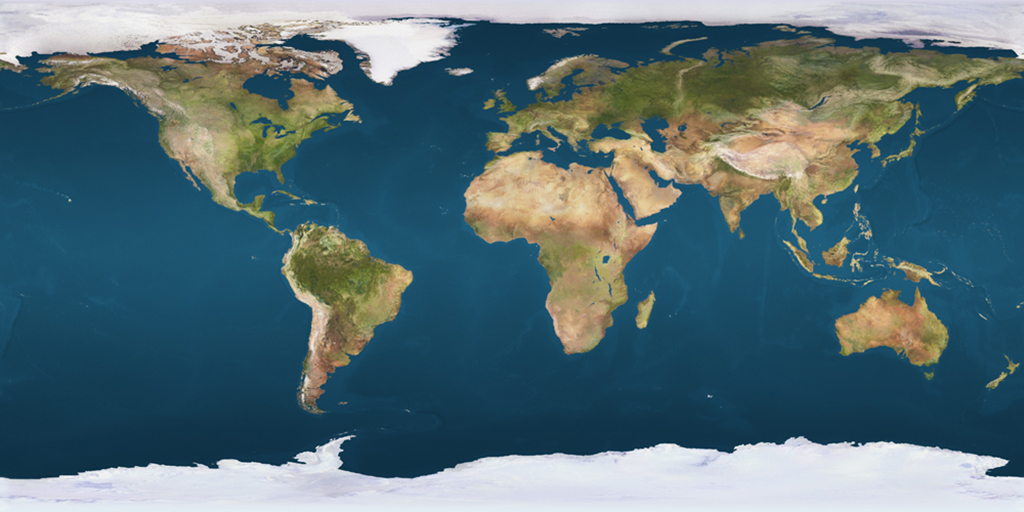
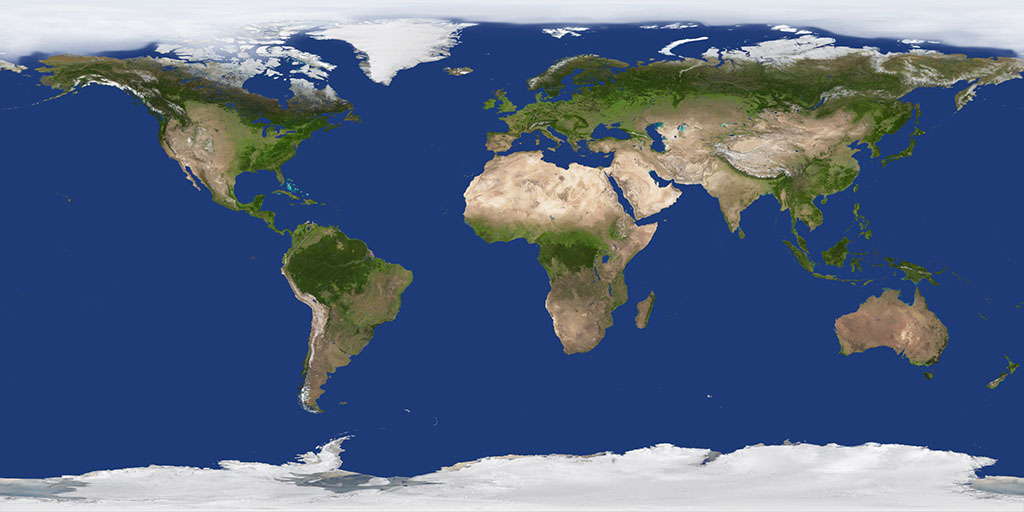
Update planets

diff --git a/api/migrate/map.js b/api/migrate/map.js
@@ -108,13 +108,6 @@ export const map = [
       .setTextures({
         specular: 0x4D5A62,
         map: CONST.KEY_PLANET_EARTH_MAP,
-        bump: {
-          key: CONST.KEY_PLANET_EARTH_BUMP,
-          scale: 0.4
-        },
-        spec: CONST.KEY_PLANET_EARTH_SPEC,
-        cloudMap: CONST.KEY_PLANET_EARTH_CLOUD_MAP,
-        cloudMapTrans: CONST.KEY_PLANET_EARTH_CLOUD_MAP_TRANS,
       })
       .setGlowInside({color: 0xA0D1E6, coefficient: 1.2, power: 1.9, length: 0.06})
       .setGlowOutside({color: 0xA0D1E6, coefficient: 0.01, power: 1.6, length: 0.6})
@@ -128,11 +121,7 @@ export const map = [
       .setParams({ radius: 1.737, segments: 40 })
       .setTextures({
         specular: 0x000000,
-        map: CONST.KEY_PLANET_MOON_MAP,
-        bump: {
-          key: CONST.KEY_PLANET_MOON_BUMP,
-          scale: 0.05
-        },
+        map: CONST.KEY_PLANET_MOON_MAP
       })
       .setGlowInside({color: 0xCCCCCC, coefficient: 1, power: 2.0, length: 0.1})
       .setGlowOutside({color: 0xFFFFFF, coefficient: 0.2, power: 2.5, length: 0.5})
@@ -149,14 +138,175 @@ export const map = [
       .setTextures({
         specular: 0x000000,
         map: CONST.KEY_PLANET_MARS_MAP,
-        bump: {
-          key: CONST.KEY_PLANET_MARS_BUMP,
-          scale: 0.03
-        },
       })
       .setGlowInside({color: 0x625731, coefficient: 1, power: 2.0, length: 0.02})
       .setGlowOutside({color: 0x625731, coefficient: 0.1, power: 2.5, length: 0.5})
       .setId('ccc3fe37-1b8c-489c-bbbb-0b3e04784d72')
+      .setRaceId('2389afd5-5635-4b81-8a2c-13aec5955240')
+      .setSectorId(ID_SECTOR_SUN),
+    new Planet()
+      .setName('Ceres')
+      .setSpeedMove(0.0004)
+      .setDistanceToCenter(1200)
+      .setParams({ radius: 3.39, segments: 40 })
+      .setPopulation(5000)
+      .setTextures({
+        specular: 0x000000,
+        map: CONST.KEY_PLANET_CERES_MAP,
+      })
+      .setGlowInside({color: 0x625731, coefficient: 1, power: 2.0, length: 0.02})
+      .setGlowOutside({color: 0x625731, coefficient: 0.1, power: 2.5, length: 0.5})
+      .setId('47e4fe7c-3d17-4e39-8d11-e22a0f2c3b58')
+      .setRaceId('2389afd5-5635-4b81-8a2c-13aec5955240')
+      .setSectorId(ID_SECTOR_SUN),
+    new Planet()
+      .setName('Eris')
+      .setSpeedMove(0.0004)
+      .setDistanceToCenter(1350)
+      .setParams({ radius: 3.39, segments: 40 })
+      .setPopulation(5000)
+      .setTextures({
+        specular: 0x000000,
+        map: CONST.KEY_PLANET_ERIS_MAP,
+      })
+      .setGlowInside({color: 0x625731, coefficient: 1, power: 2.0, length: 0.02})
+      .setGlowOutside({color: 0x625731, coefficient: 0.1, power: 2.5, length: 0.5})
+      .setId('c09575e9-b6c8-4944-8f69-43e5e89e6e12')
+      .setRaceId('2389afd5-5635-4b81-8a2c-13aec5955240')
+      .setSectorId(ID_SECTOR_SUN),
+    new Planet()
+      .setName('Haumea')
+      .setSpeedMove(0.0004)
+      .setDistanceToCenter(1650)
+      .setParams({ radius: 3.39, segments: 40 })
+      .setPopulation(5000)
+      .setTextures({
+        specular: 0x000000,
+        map: CONST.KEY_PLANET_HAUMEA_MAP,
+      })
+      .setGlowInside({color: 0x625731, coefficient: 1, power: 2.0, length: 0.02})
+      .setGlowOutside({color: 0x625731, coefficient: 0.1, power: 2.5, length: 0.5})
+      .setId('5ef86d7b-cd7b-4fae-93c4-f44cd6a95f14')
+      .setRaceId('2389afd5-5635-4b81-8a2c-13aec5955240')
+      .setSectorId(ID_SECTOR_SUN),
+    new Planet()
+      .setName('Jupiter')
+      .setSpeedMove(0.0004)
+      .setDistanceToCenter(1850)
+      .setParams({ radius: 3.39, segments: 40 })
+      .setPopulation(5000)
+      .setTextures({
+        specular: 0x000000,
+        map: CONST.KEY_PLANET_JUPITER_MAP,
+      })
+      .setGlowInside({color: 0x625731, coefficient: 1, power: 2.0, length: 0.02})
+      .setGlowOutside({color: 0x625731, coefficient: 0.1, power: 2.5, length: 0.5})
+      .setId('daa15781-cca1-437c-b3f4-f160cd8ab210')
+      .setRaceId('2389afd5-5635-4b81-8a2c-13aec5955240')
+      .setSectorId(ID_SECTOR_SUN),
+    new Planet()
+      .setName('Makemake')
+      .setSpeedMove(0.0004)
+      .setDistanceToCenter(2050)
+      .setParams({ radius: 3.39, segments: 40 })
+      .setPopulation(5000)
+      .setTextures({
+        specular: 0x000000,
+        map: CONST.KEY_PLANET_MAKEMAKE_MAP,
+      })
+      .setGlowInside({color: 0x625731, coefficient: 1, power: 2.0, length: 0.02})
+      .setGlowOutside({color: 0x625731, coefficient: 0.1, power: 2.5, length: 0.5})
+      .setId('9e66d7f0-2ab5-4fec-ae48-dc8e5a2290ea')
+      .setRaceId('2389afd5-5635-4b81-8a2c-13aec5955240')
+      .setSectorId(ID_SECTOR_SUN),
+    new Planet()
+      .setName('Mercury')
+      .setSpeedMove(0.0004)
+      .setDistanceToCenter(2050)
+      .setParams({ radius: 3.39, segments: 40 })
+      .setPopulation(5000)
+      .setTextures({
+        specular: 0x000000,
+        map: CONST.KEY_PLANET_MERCURY_MAP,
+      })
+      .setGlowInside({color: 0x625731, coefficient: 1, power: 2.0, length: 0.02})
+      .setGlowOutside({color: 0x625731, coefficient: 0.1, power: 2.5, length: 0.5})
+      .setId('31f311b6-4c0f-4fc9-9a2b-5e30c34f4f8a')
+      .setRaceId('2389afd5-5635-4b81-8a2c-13aec5955240')
+      .setSectorId(ID_SECTOR_SUN),
+    new Planet()
+      .setName('Neptun')
+      .setSpeedMove(0.0004)
+      .setDistanceToCenter(2250)
+      .setParams({ radius: 3.39, segments: 40 })
+      .setPopulation(5000)
+      .setTextures({
+        specular: 0x000000,
+        map: CONST.KEY_PLANET_NEPTUN_MAP,
+      })
+      .setGlowInside({color: 0x625731, coefficient: 1, power: 2.0, length: 0.02})
+      .setGlowOutside({color: 0x625731, coefficient: 0.1, power: 2.5, length: 0.5})
+      .setId('96cdf3ca-4914-469c-a9fc-69b8949995a8')
+      .setRaceId('2389afd5-5635-4b81-8a2c-13aec5955240')
+      .setSectorId(ID_SECTOR_SUN),
+    new Planet()
+      .setName('Saturn')
+      .setSpeedMove(0.0004)
+      .setDistanceToCenter(2450)
+      .setParams({ radius: 3.39, segments: 40 })
+      .setPopulation(5000)
+      .setTextures({
+        specular: 0x000000,
+        map: CONST.KEY_PLANET_SATURN_MAP,
+      })
+      .setGlowInside({color: 0x625731, coefficient: 1, power: 2.0, length: 0.02})
+      .setGlowOutside({color: 0x625731, coefficient: 0.1, power: 2.5, length: 0.5})
+      .setId('8b8bd117-5d1c-481a-874f-3f02c9a942cc')
+      .setRaceId('2389afd5-5635-4b81-8a2c-13aec5955240')
+      .setSectorId(ID_SECTOR_SUN),
+    new Planet()
+      .setName('Sun')
+      .setSpeedMove(0.0004)
+      .setDistanceToCenter(2650)
+      .setParams({ radius: 3.39, segments: 40 })
+      .setPopulation(5000)
+      .setTextures({
+        specular: 0x000000,
+        map: CONST.KEY_PLANET_SUN_MAP,
+      })
+      .setGlowInside({color: 0x625731, coefficient: 1, power: 2.0, length: 0.02})
+      .setGlowOutside({color: 0x625731, coefficient: 0.1, power: 2.5, length: 0.5})
+      .setId('8beee4b1-73af-4909-9515-3062adf3fce6')
+      .setRaceId('2389afd5-5635-4b81-8a2c-13aec5955240')
+      .setSectorId(ID_SECTOR_SUN),
+    new Planet()
+      .setName('Uranus')
+      .setSpeedMove(0.0004)
+      .setDistanceToCenter(2850)
+      .setParams({ radius: 3.39, segments: 40 })
+      .setPopulation(5000)
+      .setTextures({
+        specular: 0x000000,
+        map: CONST.KEY_PLANET_URANUS_MAP,
+      })
+      .setGlowInside({color: 0x625731, coefficient: 1, power: 2.0, length: 0.02})
+      .setGlowOutside({color: 0x625731, coefficient: 0.1, power: 2.5, length: 0.5})
+      .setId('45dd6bf4-3f22-4852-816a-4d0fcfadd61b')
+      .setRaceId('2389afd5-5635-4b81-8a2c-13aec5955240')
+      .setSectorId(ID_SECTOR_SUN),
+    new Planet()
+      .setName('Venus')
+      .setSpeedMove(0.0004)
+      .setDistanceToCenter(3050)
+      .setParams({ radius: 3.39, segments: 40 })
+      .setPopulation(5000)
+      .setTextures({
+        specular: 0x000000,
+        map: CONST.KEY_PLANET_VENUS_MAP,
+      })
+      .setGlowInside({color: 0x625731, coefficient: 1, power: 2.0, length: 0.02})
+      .setGlowOutside({color: 0x625731, coefficient: 0.1, power: 2.5, length: 0.5})
+      .setId('be2ec1ca-e957-4dc5-af39-0125d8909fbb')
       .setRaceId('2389afd5-5635-4b81-8a2c-13aec5955240')
       .setSectorId(ID_SECTOR_SUN),
   ],

diff --git a/app/playground/Loader.js b/app/playground/Loader.js
@@ -64,17 +64,24 @@ class Loader {
     this._textures[CONST.KEY_LIGHT_CONTROLS_14] = await this._textureLoader.load('./app/web/images/light/0.8k_14.jpg')
     this._textures[CONST.KEY_LIGHT_CONTROLS_15] = await this._textureLoader.load('./app/web/images/light/0.8k_15.jpg')
 
-    this._textures[CONST.KEY_PLANET_EARTH_MAP] = await this._textureLoader.load('./app/web/images/planets/earth/1k_earth_map.jpg')
-    // this._textures[CONST.KEY_PLANET_EARTH_BUMP] = await this._textureLoader.load('./app/web/images/planets/earth/1k_earth_bump.jpg')
-    // this._textures[CONST.KEY_PLANET_EARTH_SPEC] = await this._textureLoader.load('./app/web/images/planets/earth/1k_earth_spec.jpg')
-    // this._images[CONST.KEY_PLANET_EARTH_CLOUD_MAP] = await this._imageLoader.load('./app/web/images/planets/earth/1k_earth_cloud_map.jpg')
-    // this._images[CONST.KEY_PLANET_EARTH_CLOUD_MAP_TRANS] = await this._imageLoader.load('./app/web/images/planets/earth/1k_earth_cloud_map_trans.jpg')
 
+    this._textures[CONST.KEY_PLANET_SUN_MAP] = await this._textureLoader.load('./app/web/images/planets/sun/1k_sun_map.jpg')
     this._textures[CONST.KEY_PLANET_MOON_MAP] = await this._textureLoader.load('./app/web/images/planets/moon/1k_moon_map.jpg')
-    // this._textures[CONST.KEY_PLANET_MOON_BUMP] = await this._textureLoader.load('./app/web/images/planets/moon/1k_moon_bump.jpg')
-
     this._textures[CONST.KEY_PLANET_MARS_MAP] = await this._textureLoader.load('./app/web/images/planets/mars/1k_mars_map.jpg')
-    // this._textures[CONST.KEY_PLANET_MARS_BUMP] = await this._textureLoader.load('./app/web/images/planets/mars/1k_mars_bump.jpg')
+    this._textures[CONST.KEY_PLANET_ERIS_MAP] = await this._textureLoader.load('./app/web/images/planets/eris/1k_eris_map.jpg')
+    this._textures[CONST.KEY_PLANET_CERES_MAP] = await this._textureLoader.load('./app/web/images/planets/ceres/1k_ceres_map.jpg')
+    this._textures[CONST.KEY_PLANET_EARTH_MAP] = await this._textureLoader.load('./app/web/images/planets/earth/1k_earth_map.jpg')
+    this._textures[CONST.KEY_PLANET_VENUS_MAP] = await this._textureLoader.load('./app/web/images/planets/venus/1k_venus_map.jpg')
+    this._textures[CONST.KEY_PLANET_HAUMEA_MAP] = await this._textureLoader.load('./app/web/images/planets/haumea/1k_haumea_map.jpg')
+    this._textures[CONST.KEY_PLANET_NEPTUN_MAP] = await this._textureLoader.load('./app/web/images/planets/neptun/1k_uranus_map.jpg')
+    this._textures[CONST.KEY_PLANET_SATURN_MAP] = await this._textureLoader.load('./app/web/images/planets/saturn/1k_saturn_map.jpg')
+    this._textures[CONST.KEY_PLANET_URANUS_MAP] = await this._textureLoader.load('./app/web/images/planets/uranus/1k_neptune_map.jpg')
+    this._textures[CONST.KEY_PLANET_JUPITER_MAP] = await this._textureLoader.load('./app/web/images/planets/jupiter/1k_jupiter_map.jpg')
+    this._textures[CONST.KEY_PLANET_MERCURY_MAP] = await this._textureLoader.load('./app/web/images/planets/mercury/1k_mercury_map.jpg')
+    this._textures[CONST.KEY_PLANET_MAKEMAKE_MAP] = await this._textureLoader.load('./app/web/images/planets/makemake/1k_makemake_map.jpg')
+
+
+
 
     this._textures[CONST.KEY_SECTOR_ALPHA] = await this._textureLoader.load('./app/web/images/skybox/sector_alpha.jpg')
 

diff --git a/app/playground/Playground.js b/app/playground/Playground.js
@@ -146,9 +146,11 @@ class Playground {
 
     const panel = new DebugPanel()
       .addFolder('Renderer controls')
+      .listenFields(true)
       .add(this.renderer.shadowMap, 'enabled', 'Shadow map')
       .add(this.renderer, 'gammaInput', 'Gamma input')
       .add(this.renderer, 'gammaOutput', 'Gamma output')
+      .listenFields(false)
       .addEventOnChange((value, name) => {
         switch (name) {
           case 'enabled':
@@ -159,8 +161,10 @@ class Playground {
       })
 
       .addFolder('Point light controls')
+      .listenFields(true)
       .add(this.lightControls, 'pointLightMoveWithModel', 'Move with model')
       .add(this.lightControls.pointLight, 'castShadow', 'Cast Shadow')
+      .listenFields(false)
       .add(this.lightControls.pointLight, 'decay', 'Decay', 0, 5)
       .add(this.lightControls.pointLight, 'distance', 'Distance', 0, 8000)
       .add(this.lightControls.pointLight, 'power', 'Power', 0, 1000)
@@ -171,7 +175,9 @@ class Playground {
       .add(this.lightControls.pointLight.position, 'z', 'Z', -2000, 2000)
 
       .addFolder('Hemisphere light controls')
+      .listenFields(true)
       .add(this.lightControls, 'hemisphereLightMoveWithModel', 'Move with model')
+      .listenFields(false)
       .add(this.lightControls.hemisphereLight, 'color', 'Sky Color', null, null, true)
       .add(this.lightControls.hemisphereLight, 'groundColor', 'Ground Color', null, null, true)
       .add(this.lightControls.hemisphereLight, 'intensity', 'Intensity', 0, 100)
@@ -180,7 +186,9 @@ class Playground {
       .add(this.lightControls.hemisphereLight.position, 'z', 'Z', -2000, 2000)
 
       .addFolder('Ambient light controls')
+      .listenFields(true)
       .add(this.lightControls, 'ambientLightMoveWithModel', 'Move with model')
+      .listenFields(false)
       .add(this.lightControls.ambientLight, 'color', 'Color', null, null, true)
       .add(this.lightControls.ambientLight, 'intensity', 'Intensity', 0, 2)
       .add(this.lightControls.ambientLight.position, 'x', 'X', -2000, 2000)
@@ -200,14 +208,18 @@ class Playground {
         }
       })
       .addFolder('CameraControls')
+      .listenFields(true)
       .add(this.cameraControls, 'enableKeys', 'EnableKeys')
       .add(this.cameraControls, 'enablePan', 'EnablePan')
+      .listenFields(false)
       .add(this.cameraControls, 'minDistance', 'MinDistance', 0, 100)
       .add(this.cameraControls, 'maxDistance', 'MaxDistance', 101, 2000)
       .add(this.cameraControls, 'maxPolarAngle', 'MaxPolarAngle', 0, Math.PI)
 
       .addFolder('Ship Controls')
+      .listenFields(true)
       .add(this.characterControls, 'enabled', 'Controls enabled')
+      .listenFields(false)
       .addFolder('Ship Info')
       .listenFields(true)
       .add(this.characterControls, 'speed', 'Ship Speed')

diff --git a/app/constants.js b/app/constants.js
@@ -16,15 +16,20 @@ export const KEY_LIGHT_CONTROLS_14 = 'LC14'
 export const KEY_LIGHT_CONTROLS_15 = 'LC15'
 
 
-export const KEY_PLANET_EARTH_MAP = 'PLANET_EARTH_MAP'
-export const KEY_PLANET_EARTH_BUMP = 'PLANET_EARTH_BUMP'
-export const KEY_PLANET_EARTH_SPEC = 'PLANET_EARTH_SPEC'
-export const KEY_PLANET_EARTH_CLOUD_MAP = 'PLANET_EARTH_CLOUD_MAP'
-export const KEY_PLANET_EARTH_CLOUD_MAP_TRANS = 'PLANET_EARTH_CLOUD_MAP_TRANS'
+export const KEY_PLANET_SUN_MAP = 'PLANET_SUN_MAP'
 export const KEY_PLANET_MOON_MAP = 'PLANET_MOON_MAP'
-export const KEY_PLANET_MOON_BUMP = 'PLANET_MOON_BUMP'
 export const KEY_PLANET_MARS_MAP = 'PLANET_MARS_MAP'
-export const KEY_PLANET_MARS_BUMP = 'PLANET_MARS_BUMP'
+export const KEY_PLANET_ERIS_MAP = 'PLANET_ERIS_MAP'
+export const KEY_PLANET_CERES_MAP = 'PLANET_CERES_MAP'
+export const KEY_PLANET_EARTH_MAP = 'PLANET_EARTH_MAP'
+export const KEY_PLANET_VENUS_MAP = 'PLANET_VENUS_MAP'
+export const KEY_PLANET_HAUMEA_MAP = 'PLANET_HAUMEA_MAP'
+export const KEY_PLANET_NEPTUN_MAP = 'PLANET_NEPTUN_MAP'
+export const KEY_PLANET_SATURN_MAP = 'PLANET_SATURN_MAP'
+export const KEY_PLANET_URANUS_MAP = 'PLANET_URANUS_MAP'
+export const KEY_PLANET_JUPITER_MAP = 'PLANET_JUPITER_MAP'
+export const KEY_PLANET_MERCURY_MAP = 'PLANET_MERCURY_MAP'
+export const KEY_PLANET_MAKEMAKE_MAP = 'PLANET_MAKEMAKE_MAP'
 
 export const KEY_SECTOR_ALPHA = 'KEY_SECTOR_ALPHA'
 

diff --git a/app/playground/controls/BaseModelControls.js b/app/playground/controls/BaseModelControls.js
@@ -178,11 +178,11 @@ class BaseModelControls {
         .add(element.model.scale, 'x', 'Scale X', 0.01, 100)
         .add(element.model.scale, 'y', 'Scale Y', 0.01, 100)
         .add(element.model.scale, 'z', 'Scale Z', 0.01, 100)
-        .add(element.model.position, 'x', 'Position X', -1000000, 1000000)
-        .add(element.model.position, 'y', 'Position Y', -1000000, 1000000)
-        .add(element.model.position, 'z', 'Position Z', -1000000, 1000000)
+        .add(element.model.position, 'x', 'Position X', -5000000, 5000000)
+        .add(element.model.position, 'y', 'Position Y', -5000000, 5000000)
+        .add(element.model.position, 'z', 'Position Z', -5000000, 5000000)
         .add(element, 'angleToCenter', 'AngleToCenter', 0, 360)
-        .add(element, 'distanceToCenter', 'distanceToCenter', -1000000, 1000000)
+        .add(element, 'distanceToCenter', 'distanceToCenter', -5000000, 5000000)
         .add(element.model.rotation, 'x', 'rotation X', 0, 4 * Math.PI)
         .add(element.model.rotation, 'y', 'rotation Y', 0, 4 * Math.PI)
         .add(element.model.rotation, 'z', 'rotation Z', 0, 4 * Math.PI)
